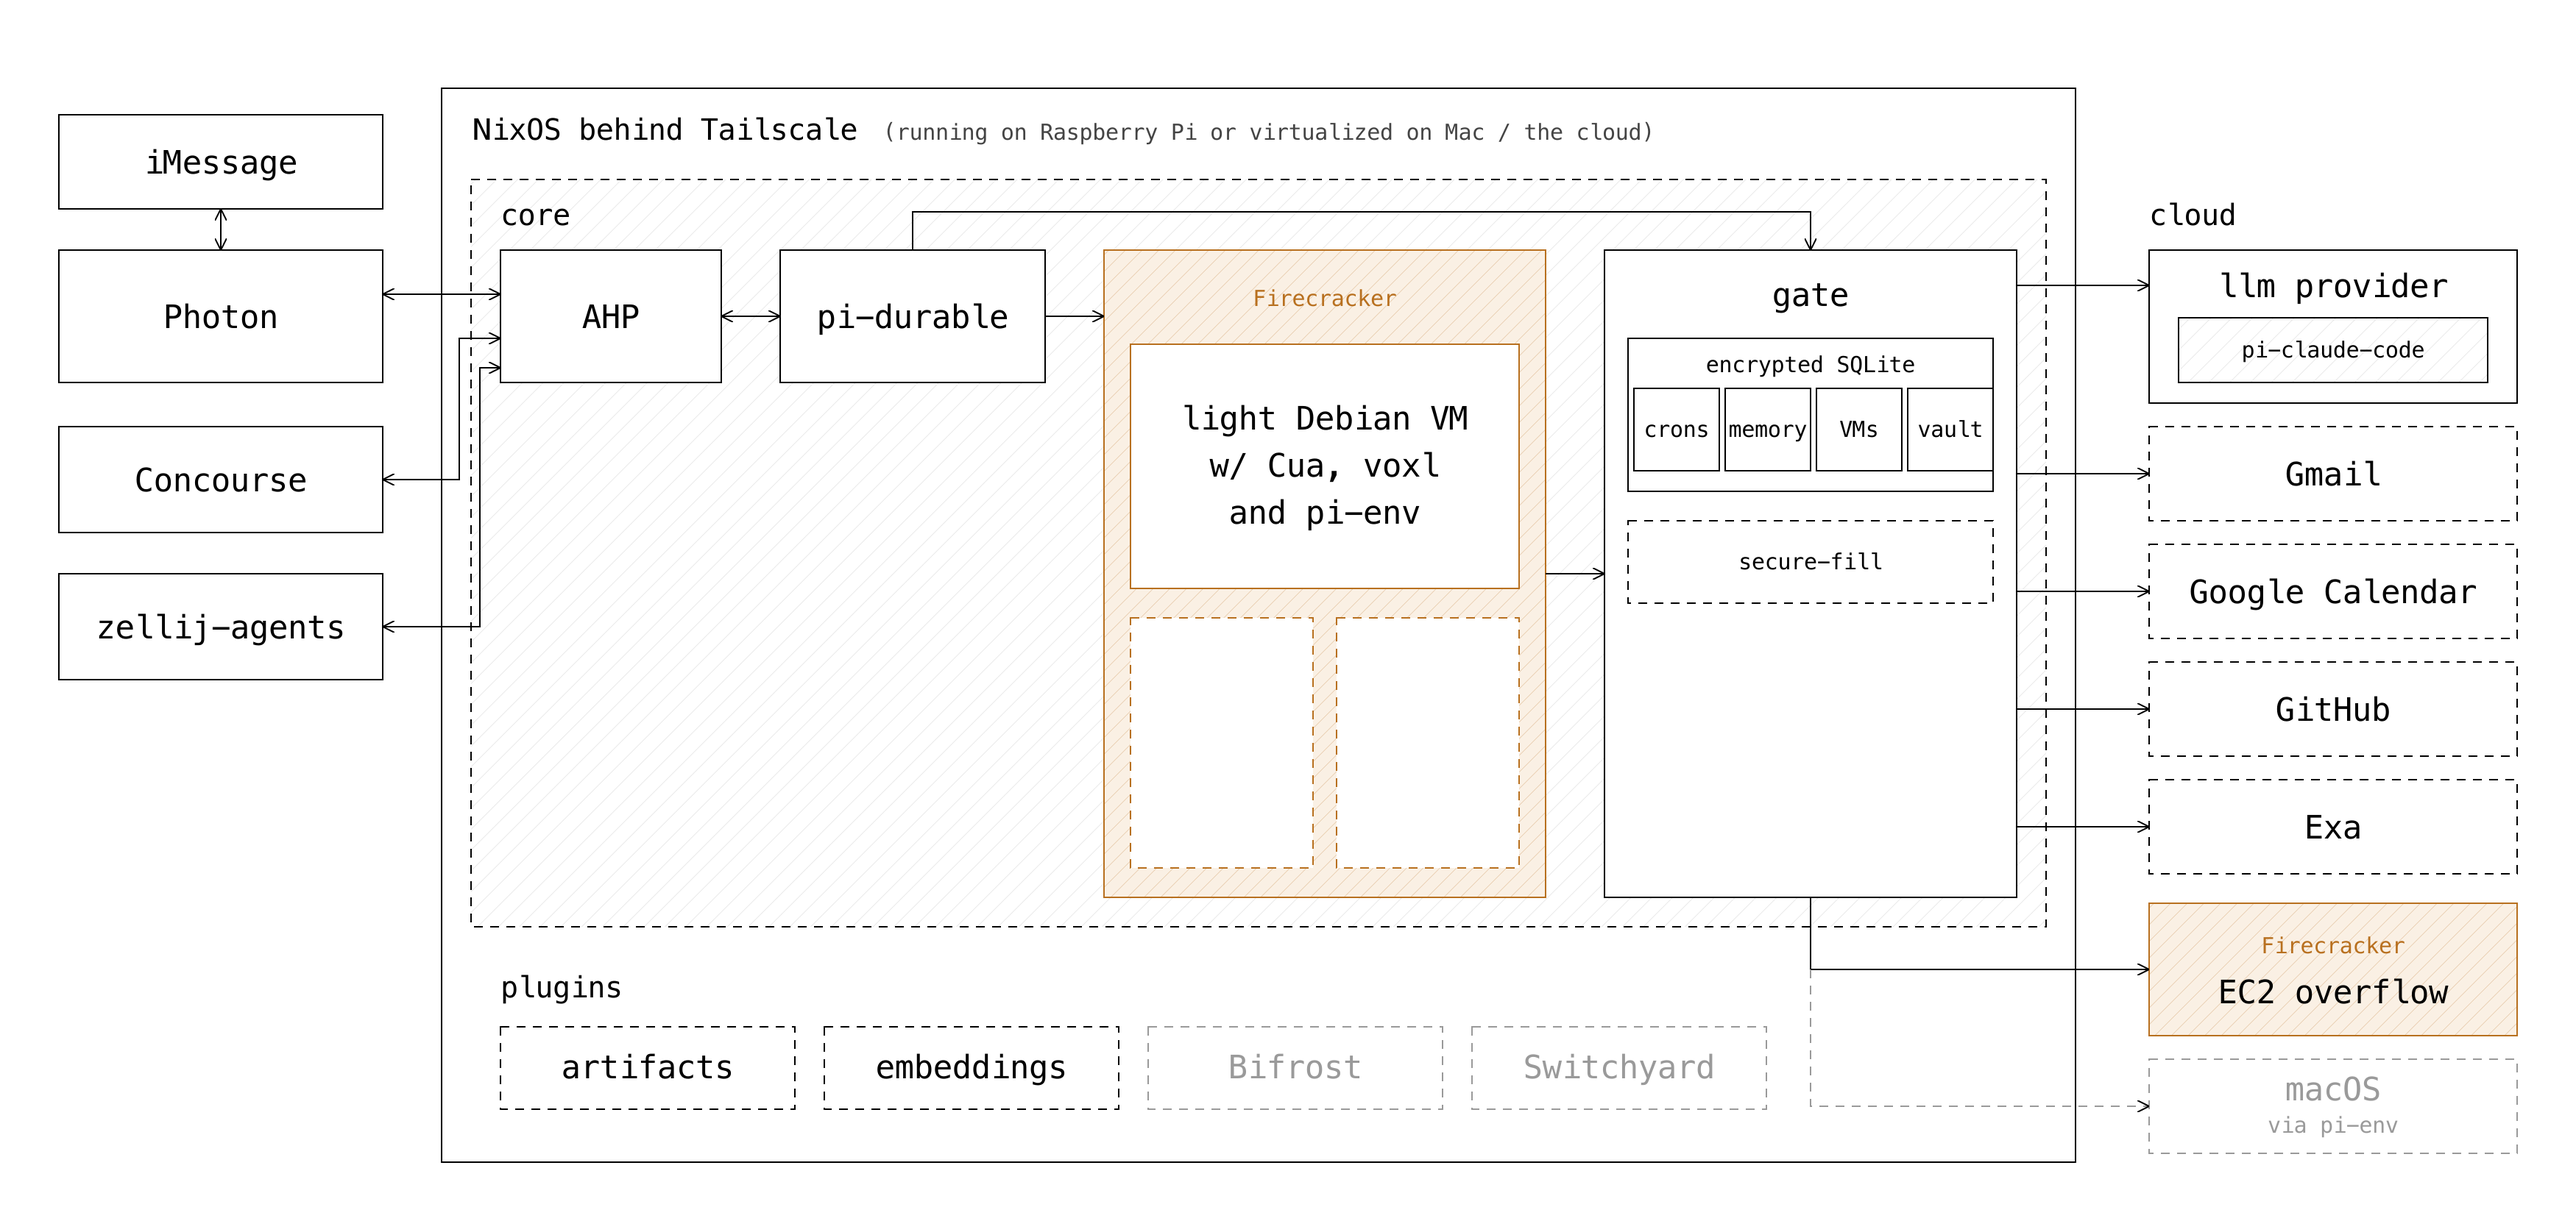
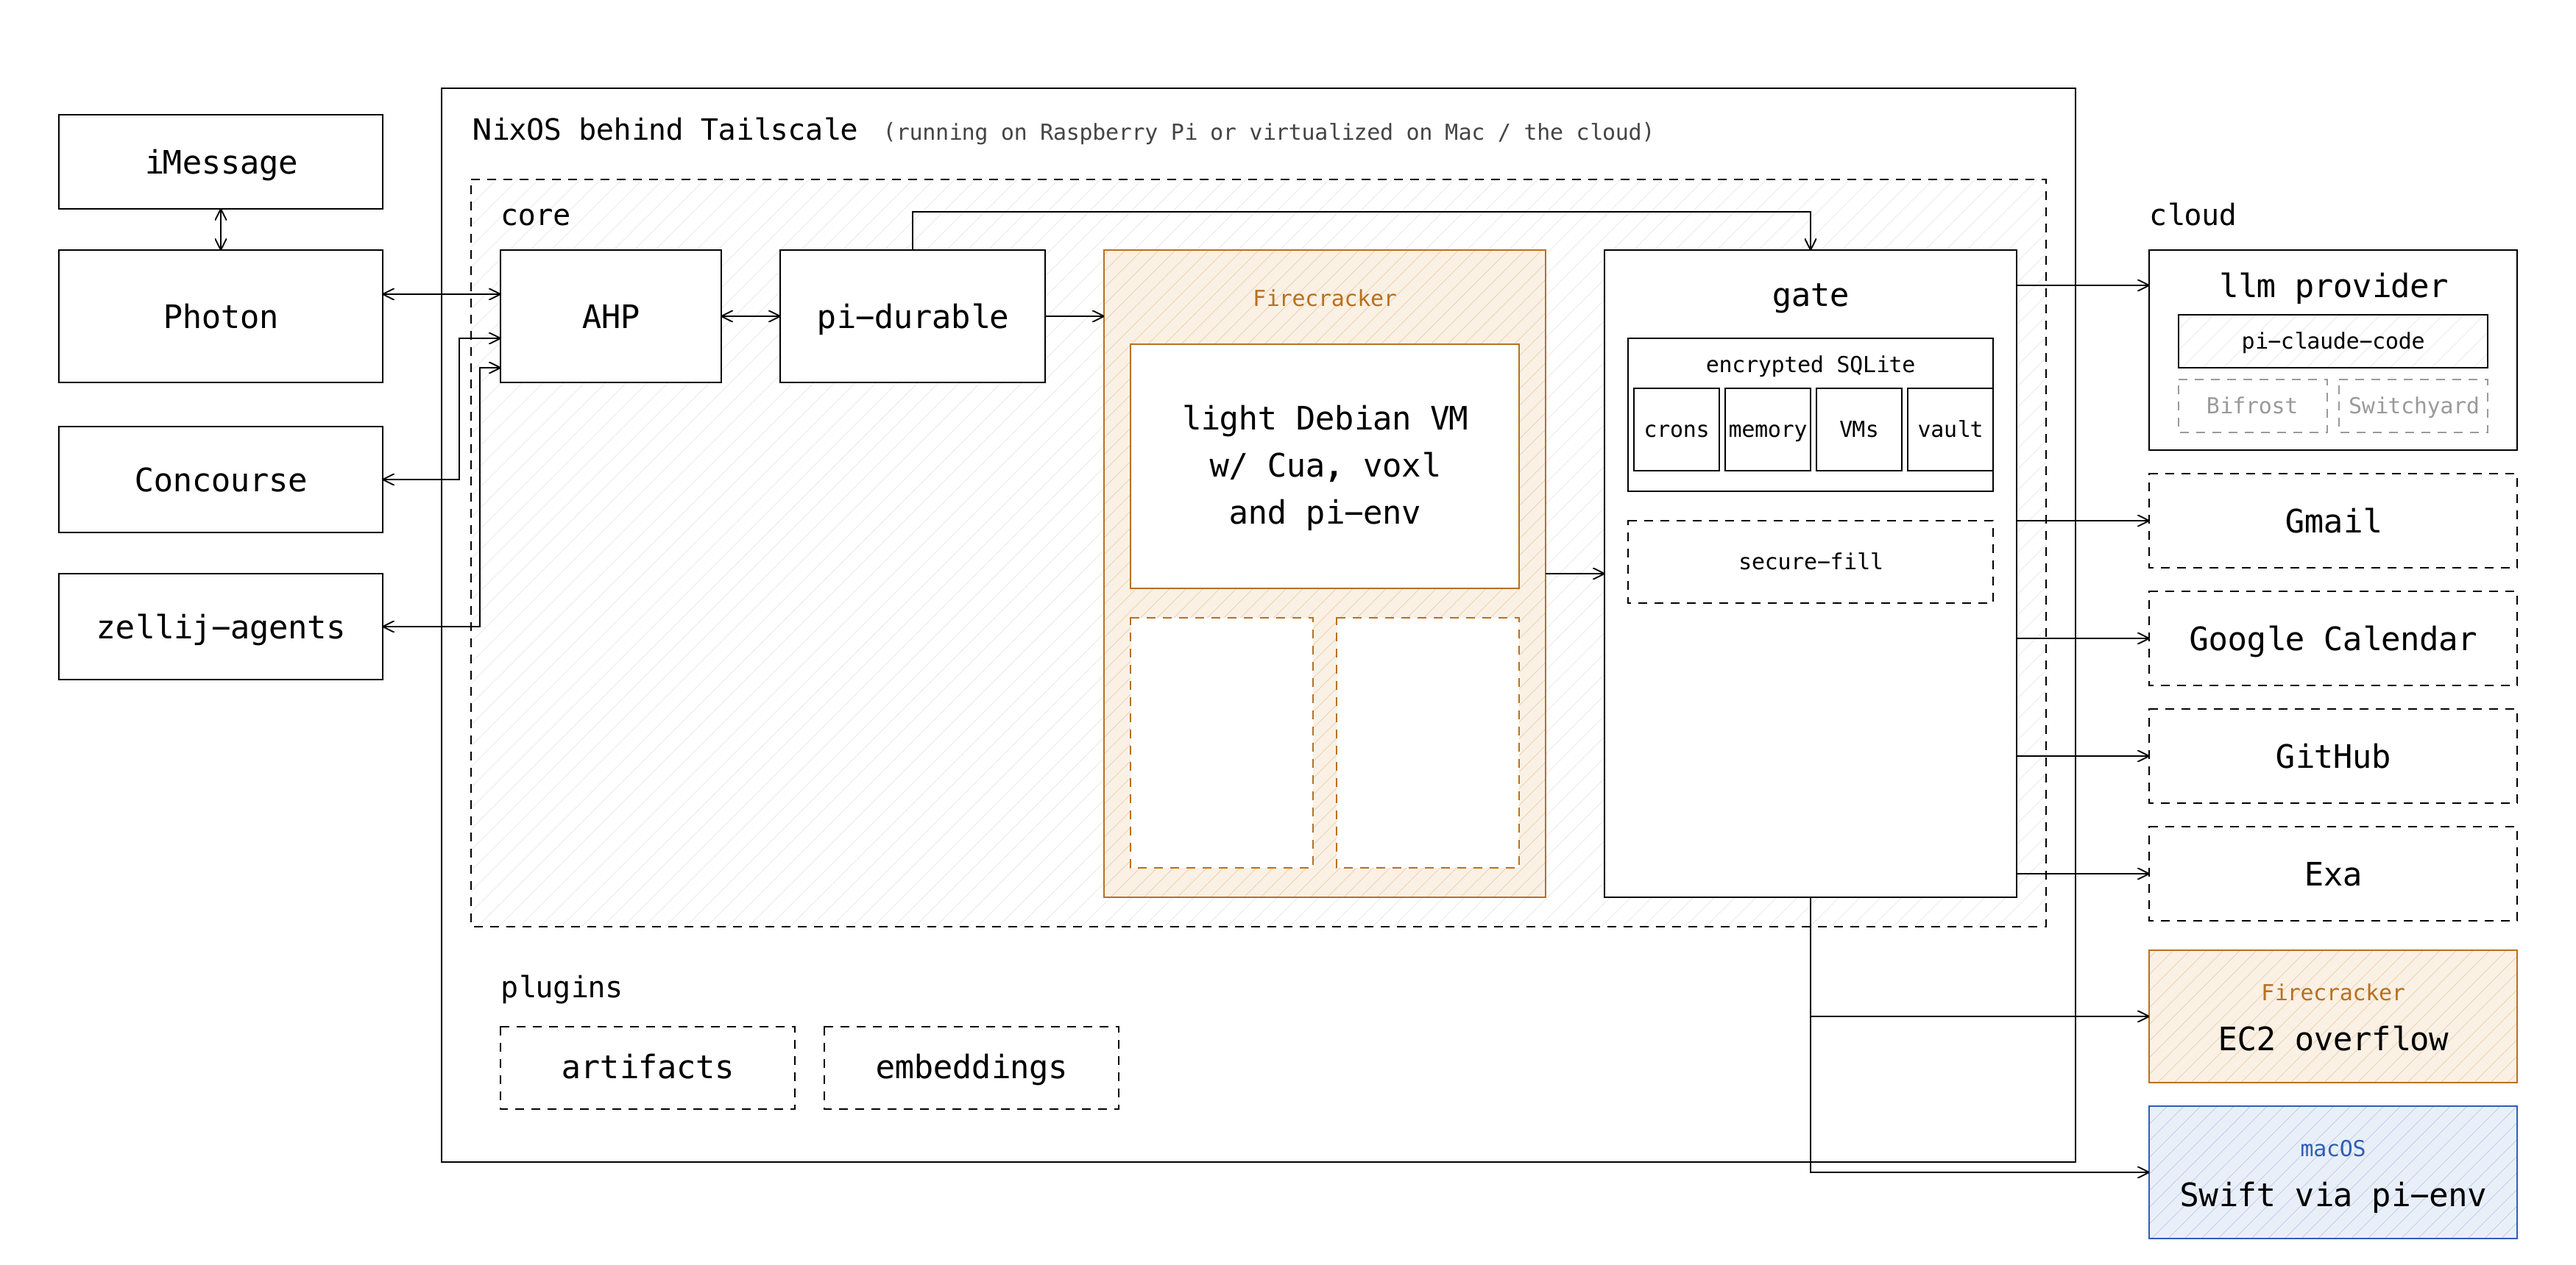
Diagram: Bifrost and Switchyard inside the llm provider for later, macOS (Swift via pi-env) as Firecracker's blue counterpart

diff --git a/site/src/App.svelte b/site/src/App.svelte
@@ -32,7 +32,7 @@
 
   <details open>
     <summary>Design</summary>
-    <div class="arch" role="img" aria-label="biscotti's architecture: iMessage through Photon, Concourse and zellij-agents all reach AHP, inside NixOS behind Tailscale. The core holds pi-durable, which keeps its crons, memory and VMs in encrypted SQLite and runs tools in Firecracker VMs (Debian with Cua, voxl and pi-env), and the gate, which holds the vault and secure-fill and through which every call to the llm provider (with pi-claude-code), Gmail, Google Calendar, GitHub, Exa and the EC2 overflow goes. Plugins: artifacts, embeddings; Bifrost and Switchyard later.">{@html architecture}</div>
+    <div class="arch" role="img" aria-label="biscotti's architecture: iMessage through Photon, Concourse and zellij-agents all reach AHP, inside NixOS behind Tailscale. The core holds pi-durable, which keeps its crons, memory and VMs in encrypted SQLite and runs tools in Firecracker VMs (Debian with Cua, voxl and pi-env), and the gate, which holds the vault and secure-fill and through which every call to the llm provider (with pi-claude-code), Gmail, Google Calendar, GitHub, Exa and the EC2 overflow goes. Plugins: artifacts, embeddings. Bifrost and Switchyard, for routing model calls, come later.">{@html architecture}</div>
   </details>
 
   <details open>
